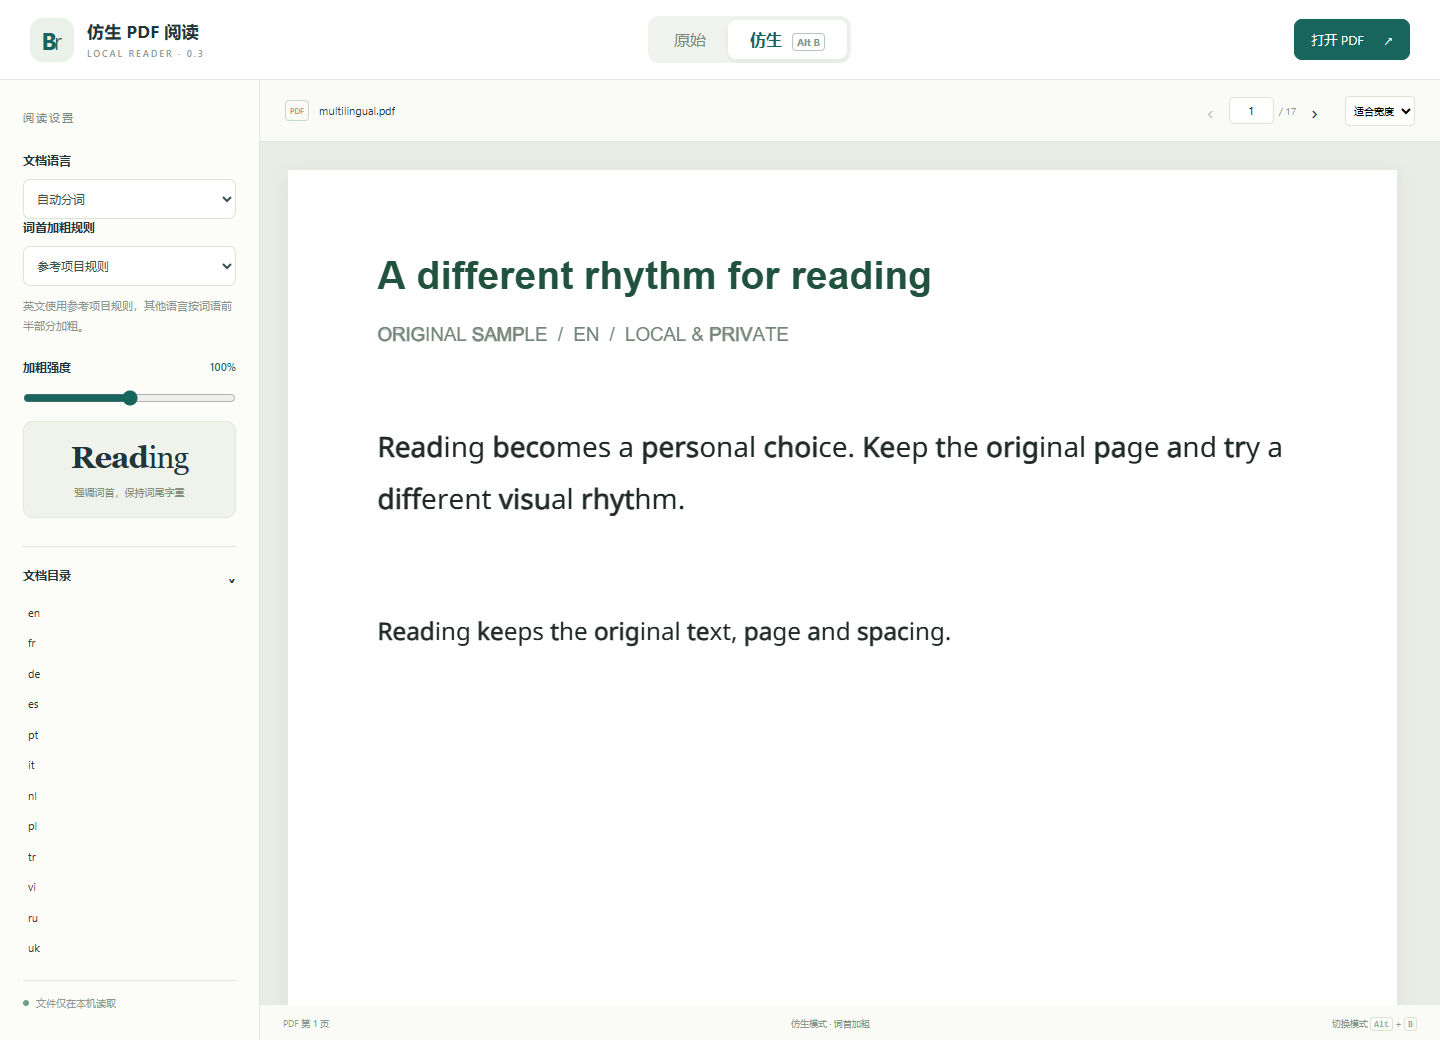
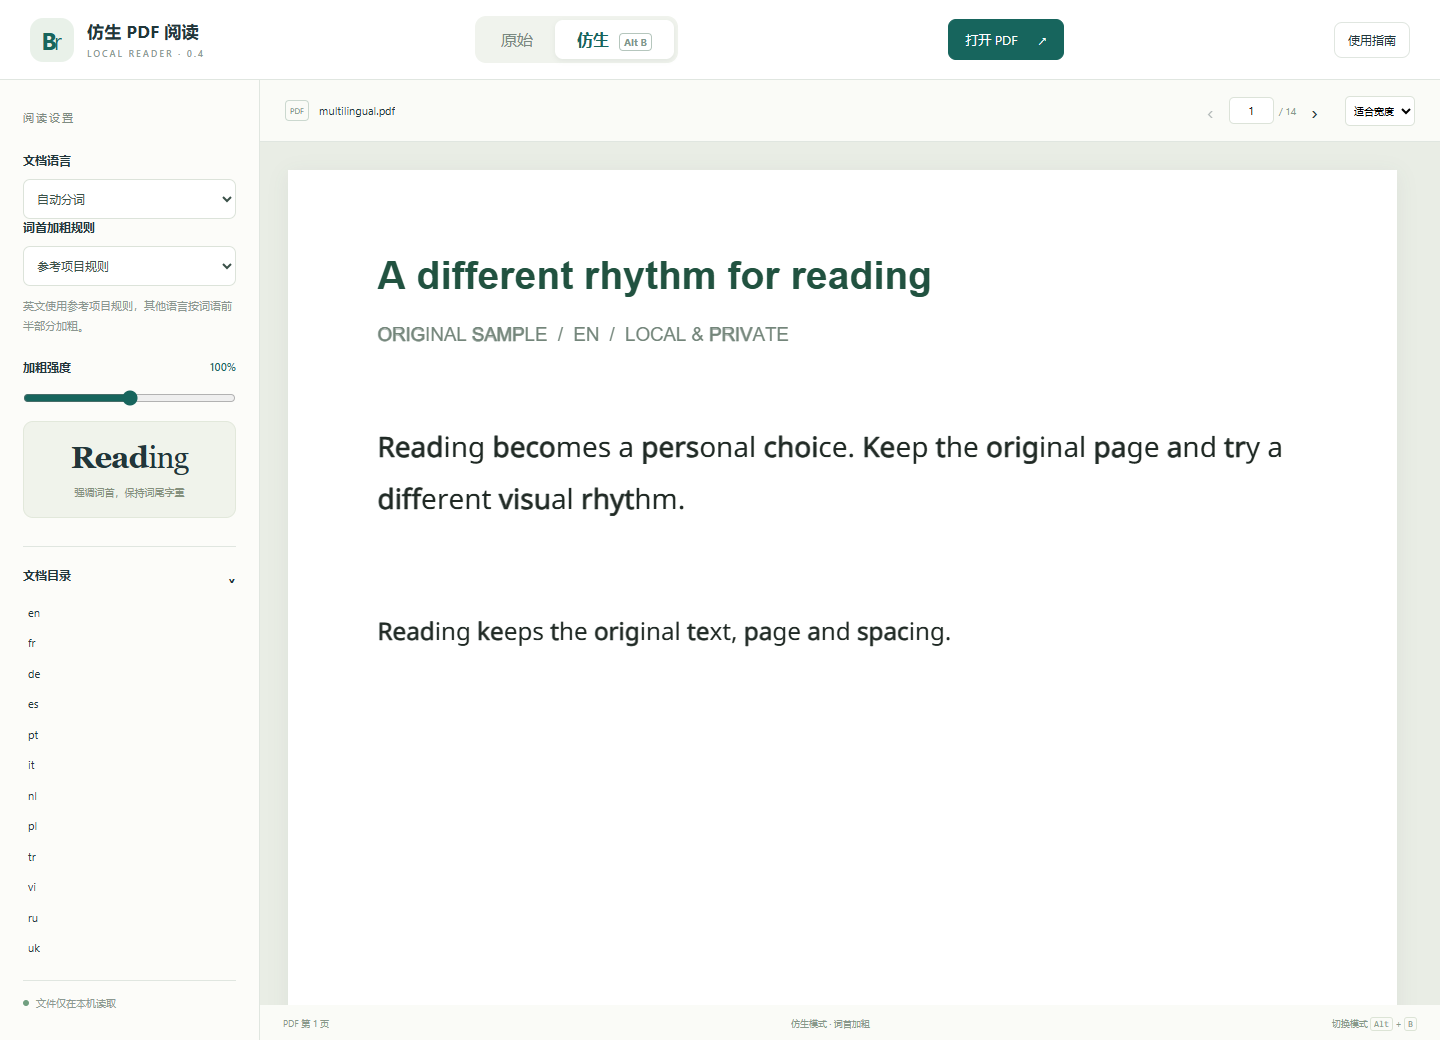
Synchronize Safari startup and audit published package contents

Changed region(s): [[0.3438, 0.0308, 0.5938, 0.0615], [0.875, 0.0, 1.0, 0.0615], [0.6562, 0.0, 0.75, 0.0615]]

diff --git a/scripts/audit_release.py b/scripts/audit_release.py
@@ -1,0 +1,62 @@
+"""Verify the six downloadable packages and their published checksum manifest."""
+import argparse
+import hashlib
+import json
+from pathlib import Path,PurePosixPath
+import tarfile
+import tomllib
+import zipfile
+
+
+def audit(folder,version):
+    hashes={name:digest for digest,name in (line.split('  ',1) for line in (folder/'SHA256SUMS.txt').read_text(encoding='utf-8').splitlines())}
+    expected={f'bionic-pdf-{name}-{version}.zip' for name in ('chrome-edge','firefox-temporary','web-reader','windows-x64')}
+    expected|={f'bionic_pdf_reader-{version}-py3-none-any.whl',f'bionic_pdf_reader-{version}.tar.gz'}
+    assert set(hashes)==expected,'The manifest must match the published packages exactly'
+    for name,digest in hashes.items():
+        assert hashlib.sha256((folder/name).read_bytes()).hexdigest()==digest,name
+
+    def check_paths(names):
+        for name in names:
+            path=PurePosixPath(name)
+            assert not path.is_absolute() and '..' not in path.parts and '\\' not in name,name
+            assert not name.lower().endswith('.pdf'),name
+            assert not any(part in ('.git','node_modules','.env') for part in path.parts),name
+
+    for name in sorted(expected):
+        path=folder/name
+        if name.endswith('.tar.gz'):
+            with tarfile.open(path) as archive:
+                check_paths(archive.getnames())
+                assert any(n.endswith('/src/bionic_pdf/layout.py') for n in archive.getnames())
+            continue
+        with zipfile.ZipFile(path) as archive:
+            assert archive.testzip() is None,name
+            names=archive.namelist();check_paths(names)
+            if name.endswith('.whl'):
+                assert 'bionic_pdf/layout.py' in names
+                assert version in archive.read('bionic_pdf/__init__.py').decode()
+                continue
+            guide=archive.read('使用指南.html').decode('utf-8')
+            assert version in guide and '乌克兰语' in guide and '希腊语' in guide
+            if 'windows-x64' in name:
+                assert 'BionicPDF.exe' in names and 'LICENSE' in names
+                assert any(n.startswith('third-party-licenses/pypdf/') for n in names)
+                assert any(n.startswith('third-party-licenses/fonttools/') for n in names)
+            elif 'web-reader' in name:
+                assert 'manifest.json' not in names and 'layout.mjs' in names
+            else:
+                manifest=json.loads(archive.read('manifest.json'))
+                assert manifest['version']==version
+                assert 'layout.mjs' in names and 'vendor/LICENSE_PDFJS' in names
+                if 'firefox-temporary' in name:
+                    assert manifest['background']=={'scripts':['background.js']}
+                else:assert manifest['background']=={'service_worker':'background.js'}
+    print('Verified six release packages, exact checksums, guides, licenses and archive contents')
+
+
+if __name__=='__main__':
+    parser=argparse.ArgumentParser(description=__doc__)
+    version=tomllib.loads((Path(__file__).resolve().parents[1]/'pyproject.toml').read_text(encoding='utf-8'))['project']['version']
+    parser.add_argument('folder',type=Path);parser.add_argument('version',nargs='?',default=version)
+    args=parser.parse_args();audit(args.folder,args.version)

diff --git a/tests/safari.py b/tests/safari.py
@@ -25,7 +25,9 @@ samples=json.loads((ROOT/'examples/shaping-cases.json').read_text(encoding='utf-
 try:
     driver.get(f'http://127.0.0.1:{server.server_port}/reader.html')
     driver.execute_script("window.__readerErrors=[];addEventListener('error',e=>__readerErrors.push(e.message));addEventListener('unhandledrejection',e=>__readerErrors.push(String(e.reason)));const originalError=console.error.bind(console);console.error=(...args)=>{__readerErrors.push(args.map(String).join(' '));originalError(...args);};")
+    wait.until(lambda d:d.execute_script("return document.documentElement.dataset.readerReady==='true'"))
     for variant in ('tagged','plain'):
+        step=f'opening {variant}'
         driver.execute_script("for(const key of Object.keys(localStorage))if(key.startsWith('bionic-page-'))localStorage.removeItem(key);")
         previous=driver.execute_script("return document.querySelector('#page-frame').getAttribute('data-render-revision')")
         data=base64.b64encode((ROOT/f'.tmp/examples/shaped-{variant}.pdf').read_bytes()).decode()
@@ -59,7 +61,7 @@ try:
             report.append({'browser':'Safari','version':driver.capabilities.get('browserVersion'),'language':sample['code'],'variant':variant,'text':True,'selection':True,'originalPixelsRestored':True})
     print('Actual Safari: shaped text, selection and toggle checks passed')
 except Exception:
-    debug=driver.execute_script("return {errors:window.__readerErrors,frame:{...document.querySelector('#page-frame').dataset},status:document.querySelector('#reading-status').textContent,message:document.querySelector('#message').textContent,pressed:document.querySelector('#bionic-mode').getAttribute('aria-pressed'),active:document.activeElement?.outerHTML,ua:navigator.userAgent}")
+    debug=driver.execute_script("return {errors:window.__readerErrors,ready:document.documentElement.dataset.readerReady,frame:{...document.querySelector('#page-frame').dataset},status:document.querySelector('#reading-status').textContent,message:document.querySelector('#message').textContent,pressed:document.querySelector('#bionic-mode').getAttribute('aria-pressed'),active:document.activeElement?.tagName+'#'+document.activeElement?.id,ua:navigator.userAgent}")
     debug['step']=step;debug['capabilities']=driver.capabilities
     (OUT/'safari-failure.json').write_text(json.dumps(debug,ensure_ascii=False,indent=2),encoding='utf-8')
     driver.save_screenshot(str(OUT/'safari-failure.png'))

diff --git a/scripts/build_packages.py b/scripts/build_packages.py
@@ -42,7 +42,8 @@ def main():
             writer.writestr('使用指南.html',guide)
             for path in sorted((out/'third-party-licenses').rglob('*')):
                 if path.is_file():writer.write(path,path.relative_to(out).as_posix())
-    files=sorted(p for p in out.iterdir() if p.is_file() and p.suffix in ('.zip','.exe','.whl','.gz'))
+    # Only files published as release assets, not the intermediate executable.
+    files=sorted(p for p in out.iterdir() if p.is_file() and p.suffix in ('.zip','.whl','.gz'))
     (out/'SHA256SUMS.txt').write_text(''.join(hashlib.sha256(p.read_bytes()).hexdigest()+'  '+p.name+'\n' for p in files),encoding='utf-8')
     print('\n'.join(str(p) for p in files))
 

diff --git a/docs/development.md b/docs/development.md
@@ -41,6 +41,8 @@ python scripts/build_packages.py
 
 输出在 `dist/`，含 Chrome/Edge ZIP、Firefox 临时开发 ZIP、网页 ZIP、Python 包及 SHA256 校验清单。Windows 可执行文件为独立便携版，不要求安装 Python。它不是带系统安装向导的 MSI，也没有商店签名。
 
+Windows 包构建完成后运行 `python scripts/audit_release.py dist`，核对 6 个下载包的 SHA256、内置指南、许可证和归档内容。SHA256 清单只列实际发布的下载包；不列中间生成的独立 EXE。
+
 ## 维护与发布
 
 1. 同步 `pyproject.toml`、Python `__version__`、扩展 `manifest.json` 和 `package.json` 的版本。
